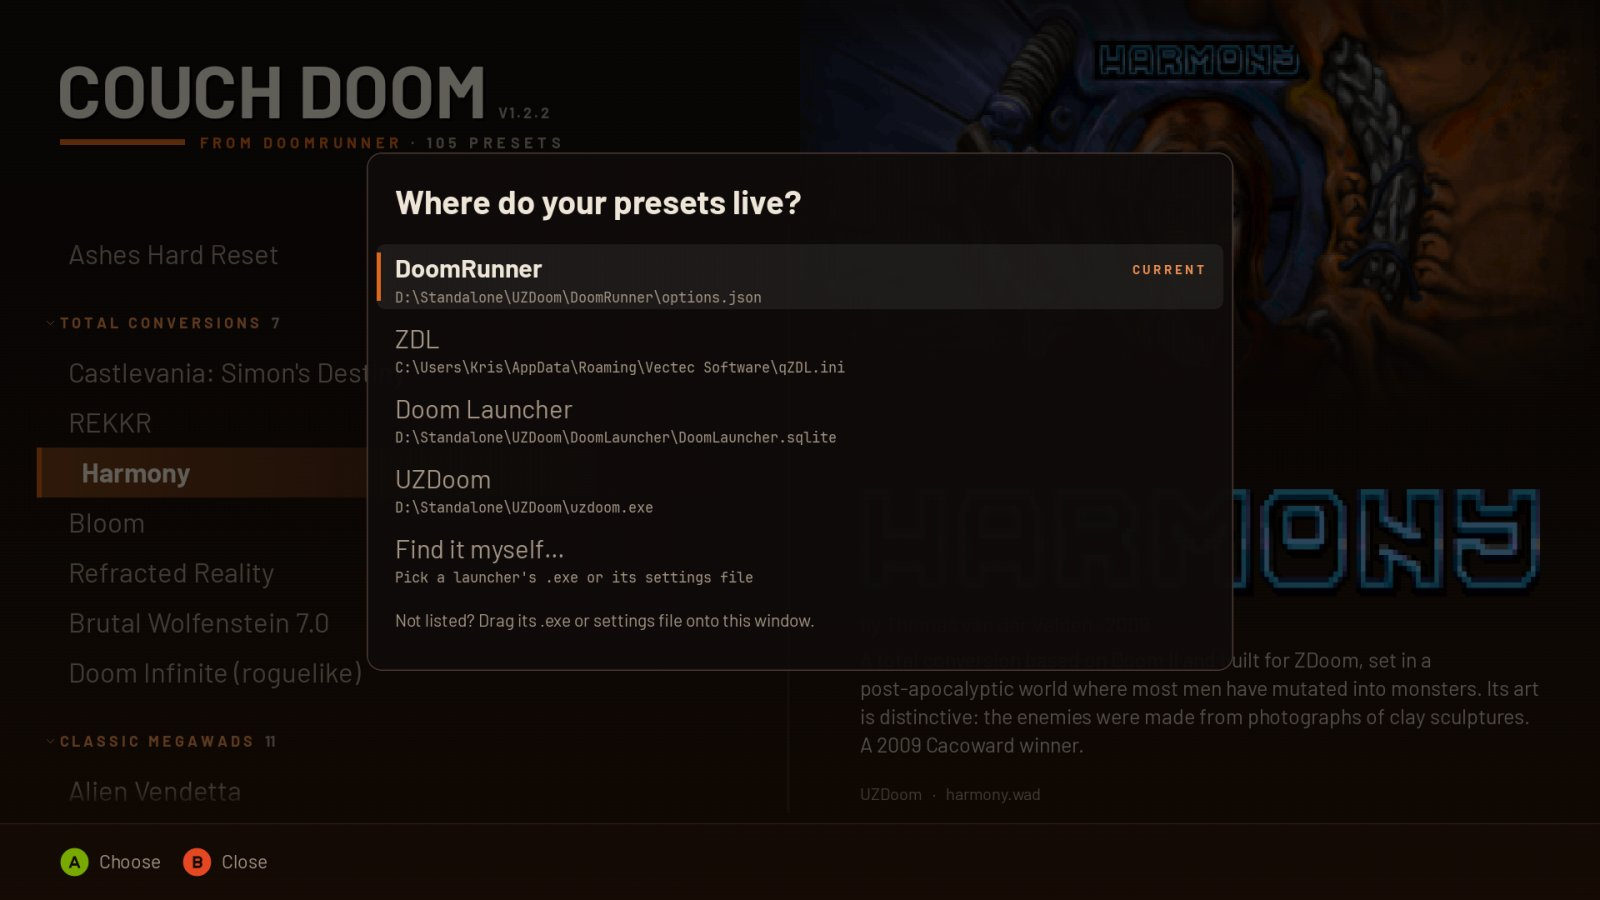
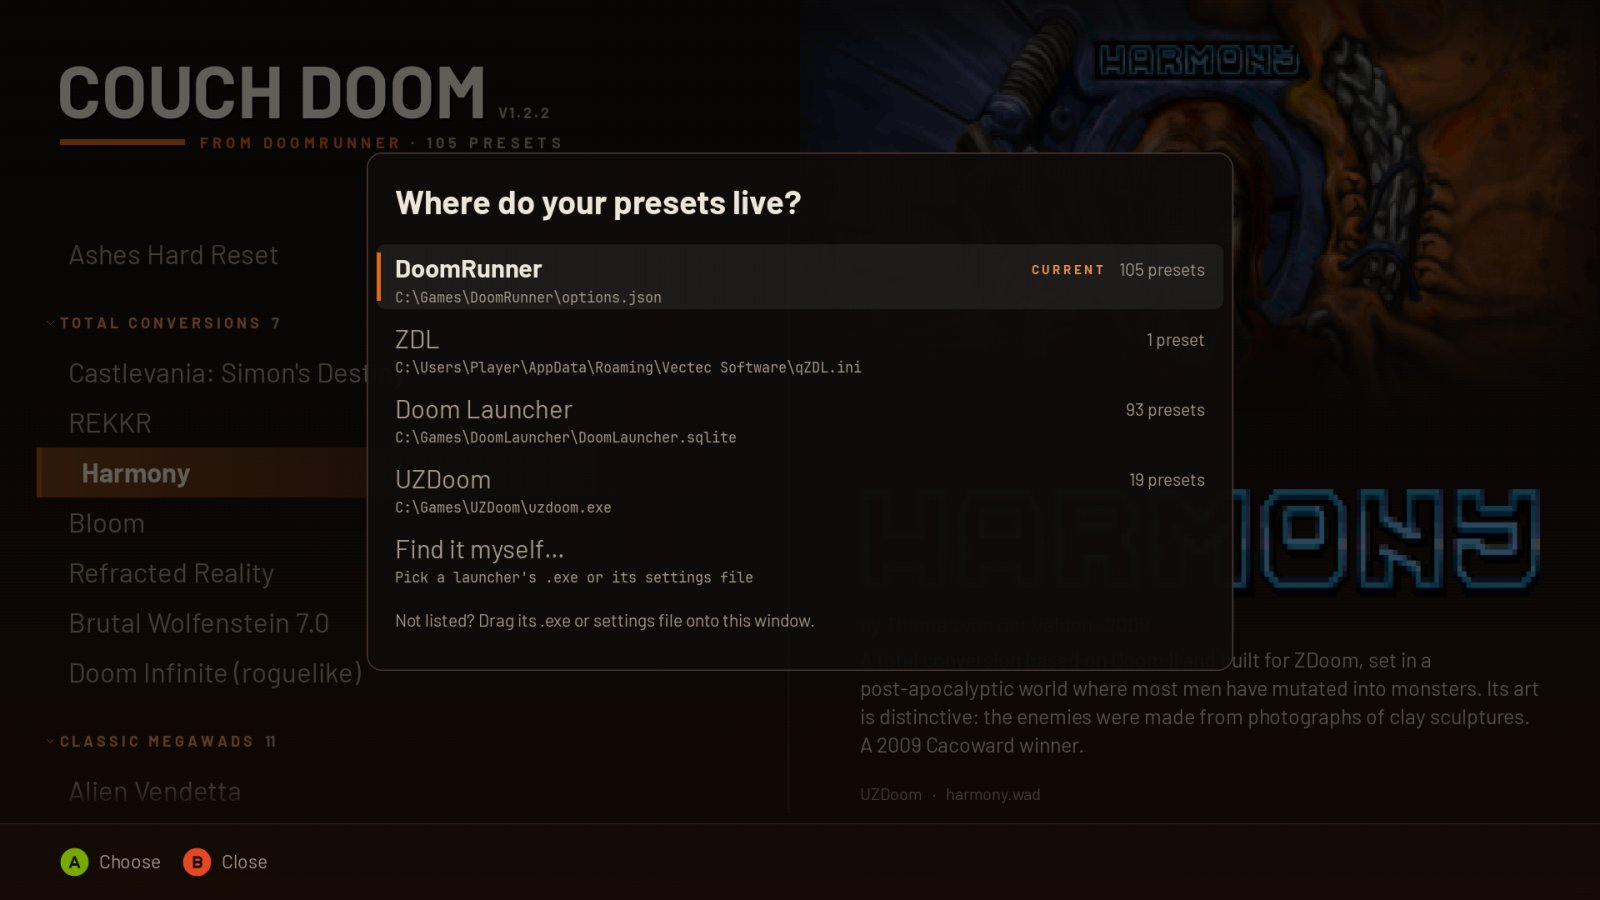
chore(docs): script the README screenshots and hide personal paths in the picker shot
packaging/readme_screenshots.py renders the shots listed in readme-screenshots.json from a local library in a hidden window, restoring saved state afterwards. The picker shot now shows stand-in paths and each launcher's preset count.

diff --git a/packaging/readme_screenshots.py b/packaging/readme_screenshots.py
@@ -1,0 +1,155 @@
+"""Retake the README screenshots from your own launcher library.
+
+Run from a source checkout: PYTHONPATH=src python packaging/readme_screenshots.py [--only FILE ...] [--out DIR]
+
+Shots are listed in packaging/readme-screenshots.json by preset or category name, so they only come out as
+intended with a library that has those games. Each one starts from the plain list. The app draws into a hidden
+window with controller prompts and no audio; your saved state (favorites, last played, settings) is put back
+afterwards. Pick games whose art gives the gallery different colours.
+"""
+from __future__ import annotations
+
+import argparse
+import json
+import os
+import shutil
+import tempfile
+import time
+from pathlib import Path, PureWindowsPath
+
+os.environ["SDL_AUDIODRIVER"] = "dummy"
+os.environ["COUCHDOOM_NO_UPDATE_CHECK"] = "1"
+os.environ["PYGAME_HIDE_SUPPORT_PROMPT"] = "1"
+
+import pygame
+
+from couch_doom import config, gamepad, ui
+from couch_doom.config import STATE_FILE
+from couch_doom.gamepad import Action
+from couch_doom.i18n import set_language
+from couch_doom.launchers import Launchers
+from couch_doom.state import State
+from couch_doom.ui import App
+
+ROOT = Path(__file__).resolve().parent.parent
+CONFIG = Path(__file__).with_name("readme-screenshots.json")
+
+for _cls in vars(gamepad).values():
+    if isinstance(_cls, type) and isinstance(getattr(_cls, "pad_mode", None), property):
+        _cls.pad_mode = property(lambda self: True)
+        _cls.family = property(lambda self: "xbox")
+
+
+class ShownChoice:
+    """A picker row that displays a stand-in path, so screenshots don't publish the author's folders."""
+
+    def __init__(self, choice, path: str):
+        self.choice, self.path = choice, PureWindowsPath(path)
+        self.id, self.name, self.source = choice.id, choice.name, choice.source
+
+
+def make_app(render_size: tuple[int, int], language: str) -> App:
+    def create_window(self) -> None:
+        self.window, self.dpi = None, 1.0
+        self.screen = pygame.display.set_mode(render_size, pygame.HIDDEN)
+        self._layout()
+
+    App._create_window = create_window
+    ui._force_foreground = lambda: None
+    state = State(STATE_FILE)
+    state.music = state.menu_sounds = False  # no title music renders between shots
+    state.recent_group = False
+    set_language(language)
+    launchers = Launchers(state)
+    launchers.startup()
+    app = App(launchers.load(), state, windowed=True, launchers=launchers)
+    app.collapsed_sections = set()
+    app._rebuild_rows()
+    return app
+
+
+def settle(app: App, seconds: float) -> None:
+    clock = pygame.time.Clock()
+    last = time.monotonic()
+    end = last + seconds
+    while (now := time.monotonic()) < end:
+        pygame.event.pump()
+        app.tick(now, now - last)
+        last = now
+        app._draw(now)
+        clock.tick(60)
+
+
+def select_preset(app: App, name: str) -> None:
+    index = next(i for i, p in enumerate(app.opts.presets) if p.name == name)
+    app._select_row(next(r for r, row in enumerate(app.rows) if row.kind == "preset" and row.preset == index and not row.fav))
+    end = time.monotonic() + 8.0
+    while time.monotonic() < end and not (app.current in app.art_cache and app.current in app.readmes):
+        settle(app, 0.25)
+    settle(app, 1.6)  # art crossfade, detail slide and theme blend
+
+
+def take(app: App, shot: dict, picker_paths: dict[str, str]) -> None:
+    now = time.monotonic
+    app.mode = "list"
+    app._set_filter(shot.get("search", ""))
+    if "category" in shot:
+        app._select_row(next(r for r, row in enumerate(app.rows) if row.kind == "header" and row.text == shot["category"]))
+        settle(app, 2.0)
+        return
+    select_preset(app, shot["preset"])
+    screen = shot.get("screen")
+    if "search" in shot:
+        app._open_search(now())
+    elif screen == "menu":
+        app.state.music = app.state.menu_sounds = True  # show the defaults; audio is the dummy driver
+        app._on_action(Action.MENU, now())
+    elif screen in ("readme", "endoom"):
+        app._open_info(now())
+        if screen == "endoom":
+            settle(app, 0.3)
+            app._on_action(Action.NEXT_SECTION, now())
+    elif screen == "picker":
+        for choice in app.launchers.choices:
+            app.launchers.preview(choice)  # the preset counts beside each launcher
+        app._open_picker()
+        app.picker = [ShownChoice(c, picker_paths.get(c.source.key, str(c.path))) for c in app.launchers.choices] + [None]
+    elif screen == "loading":
+        name = app.opts.presets[app.current].name
+        backdrop = app._loading_backdrop(app.current, app._layers_for(app.theme)["bg"][0])[0]
+        app._loading_screen(name, backdrop)
+        app._draw_loading(name, 1.6)
+        return
+    settle(app, 1.0)
+    if screen == "menu":
+        app.state.music = app.state.menu_sounds = False
+
+
+def main() -> None:
+    ap = argparse.ArgumentParser(description=__doc__.splitlines()[0])
+    ap.add_argument("--only", nargs="+", metavar="FILE", help="Retake just these files")
+    ap.add_argument("--out", type=Path, default=ROOT / "docs" / "screenshots")
+    args = ap.parse_args()
+    plan = json.loads(CONFIG.read_text(encoding="utf-8"))
+    shots = [s for s in plan["shots"] if not args.only or s["file"] in args.only]
+
+    backup = Path(tempfile.mkdtemp(prefix="couchdoom-shots-")) / "state"
+    shutil.copytree(config.STATE_DIR, backup)
+    try:
+        pygame.init()
+        app = make_app(tuple(plan["render_size"]), plan["language"])
+        args.out.mkdir(parents=True, exist_ok=True)
+        for shot in shots:
+            take(app, shot, plan["picker_paths"])
+            path = args.out / shot["file"]
+            pygame.image.save(pygame.transform.smoothscale(app.screen, tuple(plan["save_size"])), str(path))
+            print("saved", path)
+    finally:
+        pygame.quit()
+        shutil.rmtree(config.STATE_DIR, ignore_errors=True)
+        shutil.copytree(backup, config.STATE_DIR)
+        shutil.rmtree(backup.parent, ignore_errors=True)
+
+
+if __name__ == "__main__":
+    main()
